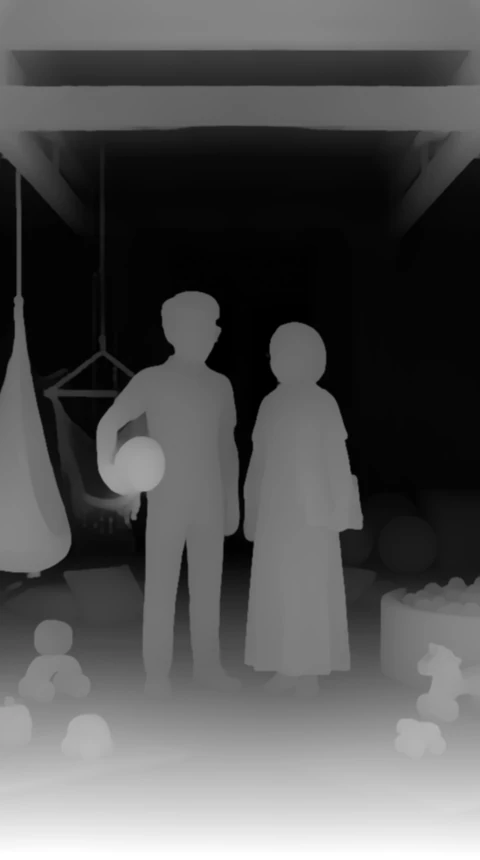
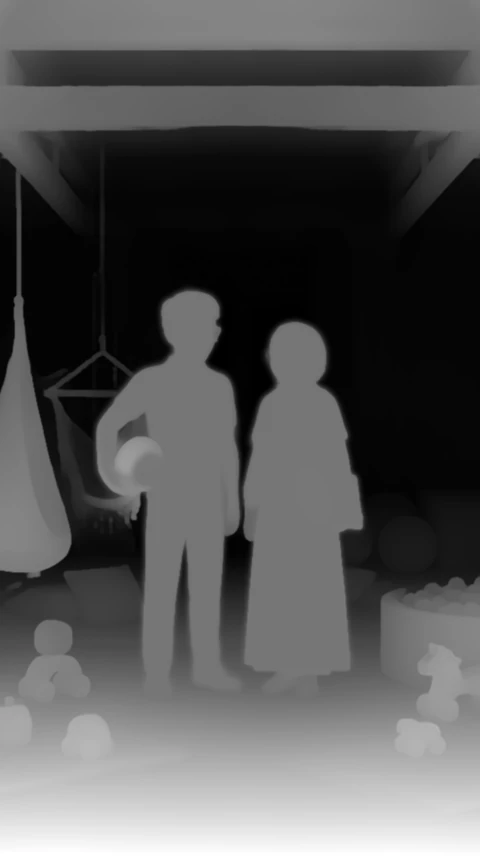
Perbaiki wajah penyok, kartu menutupi wajah, dan nama terpotong

diff --git a/index.html b/index.html
@@ -349,7 +349,7 @@
         <p class="kicker">Rangkaian Acara</p>
         <h2 class="judul" id="acara-judul">Hari Bahagia</h2>
       </div>
-      <article class="adegan adegan--atas" data-t="0.14,0.36" data-gaya="naik">
+      <article class="adegan adegan--bawah" data-t="0.14,0.36" data-gaya="naik">
         <div class="kartu kartu--kayu acara">
           <svg class="acara__ikon" aria-hidden="true"><use href="#ico-rings"/></svg>
           <h3 class="acara__judul">Akad Nikah</h3>
@@ -357,7 +357,7 @@
           <p class="acara__info"><svg aria-hidden="true"><use href="#ico-clock"/></svg><time datetime="2026-12-26T09:00+07:00">Pukul 09.00 WIB</time></p>
         </div>
       </article>
-      <article class="adegan adegan--atas" data-t="0.36,0.56" data-gaya="naik">
+      <article class="adegan adegan--bawah" data-t="0.36,0.56" data-gaya="naik">
         <div class="kartu kartu--kayu acara">
           <svg class="acara__ikon" aria-hidden="true"><use href="#ico-pendopo"/></svg>
           <h3 class="acara__judul">Resepsi</h3>
@@ -365,7 +365,7 @@
           <p class="acara__info"><svg aria-hidden="true"><use href="#ico-clock"/></svg><span><time datetime="2026-12-26T11:00+07:00">11.00</time> – <time datetime="2026-12-26T13:00+07:00">13.00 WIB</time></span></p>
         </div>
       </article>
-      <div class="adegan adegan--atas" data-t="0.56,0.78" data-gaya="zoom">
+      <div class="adegan adegan--bawah" data-t="0.56,0.78" data-gaya="zoom">
         <p class="kicker">Menuju hari bahagia</p>
         <div class="hitung" id="hitung" role="timer" aria-label="Waktu menuju akad nikah">
           <div class="hitung__kotak"><span class="hitung__angka" data-unit="days">00</span><span class="hitung__label">Hari</span></div>

diff --git a/js/sinema/cerita.js b/js/sinema/cerita.js
@@ -307,15 +307,13 @@ export const BAB = [
     id: 'acara', judul: 'Hari Bahagia', durasi: 3.8, waktu: 'emasDalam',
     latar: P9('pelaminan'),
     lapisan: [
-      { potongan: 'gong', uv: [0.5, 0.97], maju: 14, tinggi: 9,
-        gerak: [{ t: [0.54, 0.62], dari: { o: 0, y: -1 }, ke: { o: 1, y: 0 } }, { t: [0.76, 0.82], ke: { o: 0 } }] },
       { jenis: 'sinar', pos: [6, 14, -28], ukuran: [20, 44], kekuatan: 0.35, rz: -0.35 }
     ],
     kamera: [
       { t: 0.05, uv: [0.5, 0.42], jarak: 56 },
-      { t: 0.3, uv: [0.5, 0.56], jarak: 48, geser: [-1, 0] },
-      { t: 0.55, uv: [0.5, 0.58], jarak: 46, geser: [1, 0] },
-      { t: 0.75, uv: [0.5, 0.62], jarak: 46 },
+      { t: 0.3, uv: [0.5, 0.5], jarak: 48, geser: [-1, 0] },
+      { t: 0.55, uv: [0.5, 0.52], jarak: 46, geser: [1, 0] },
+      { t: 0.75, uv: [0.5, 0.52], jarak: 48 },
       { t: 0.92, uv: [0.5, 0.36], jarak: 50 }
     ],
     efek: { kelopak: 0.8, kilau: 0.9 },

diff --git a/css/sinema.css b/css/sinema.css
@@ -510,3 +510,6 @@ select.field__input {
   }
   :root { --lebar-isi: min(62.5vh - 2.5rem, 440px); }
 }
+
+/* Huruf script (Great Vibes) punya lengkungan yang keluar dari kotak huruf; beri ruang agar warna emas tidak terpotong */
+.nama-besar, .sampul__nama { display: inline-block; padding: .12em .45em .22em; margin: -.12em -.45em -.22em; line-height: 1.2; overflow: visible; }

diff --git a/tools/prepare_scene_assets.py b/tools/prepare_scene_assets.py
@@ -12,6 +12,7 @@ Perintah:
           Menghapus latar dengan model ISNet lalu memotong ke area objek.
           --white : gabungkan dengan kunci warna putih (untuk latar putih polos).
   Opsi --putar 90 memutar gambar yang tersimpan miring (berlawanan jarum jam).
+  Opsi --ratakan-orang (depth) meratakan kedalaman tokoh -> WAJIB untuk adegan bertokoh.
           Dipakai untuk lapisan objek & tokoh (kode L dan C).
 
 Model diunduh otomatis ke ~/.cache/undangan-models (±280 MB, sekali saja).
@@ -89,6 +90,15 @@ def cmd_depth(args):
     w = min(args.width, img.width)
     img = img.resize((w, round(img.height * w / img.width)), Image.LANCZOS)
     d = estimate_depth(img)
+    if args.ratakan_orang:
+        # Tokoh (objek utama menurut ISNet) dibuat datar: wajah & tubuh tidak ikut melengkung saat kamera bergerak
+        m = isnet_mask(img)
+        m = np.asarray(Image.fromarray((m * 255).astype(np.uint8)).resize((d.shape[1], d.shape[0]), Image.BILINEAR), np.float32) / 255
+        inti = m > 0.5
+        if inti.any():
+            nilai = float(np.percentile(d[inti], 70))
+            halus = np.asarray(Image.fromarray((m * 255).astype(np.uint8)).filter(ImageFilter.GaussianBlur(3)), np.float32) / 255
+            d = d * (1 - halus) + nilai * halus
     dimg = Image.fromarray((d * 255).astype(np.uint8)).resize(img.size, Image.BICUBIC)
     # haluskan agar mesh tidak bergerigi, tetapi tepi objek tetap tegas
     # dilatasi: tepi objek depan "melebar" sedikit agar regangan jatuh di area latar (tidak terlihat)
@@ -151,6 +161,7 @@ def main():
     d.add_argument("src"); d.add_argument("out")
     d.add_argument("--width", type=int, default=1440); d.add_argument("--quality", type=int, default=80)
     d.add_argument("--putar", type=int, default=0, help="putar N derajat berlawanan jarum jam (90/180/270)")
+    d.add_argument("--ratakan-orang", action="store_true", help="ratakan kedalaman tokoh agar wajah tidak penyok")
     d.set_defaults(fn=cmd_depth)
     c = sub.add_parser("cutout")
     c.add_argument("src"); c.add_argument("out")
